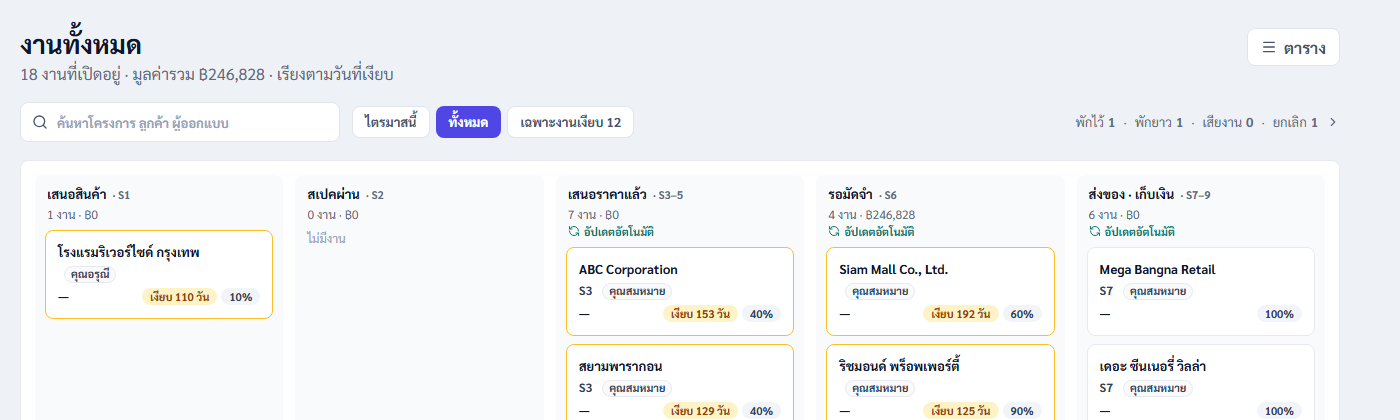
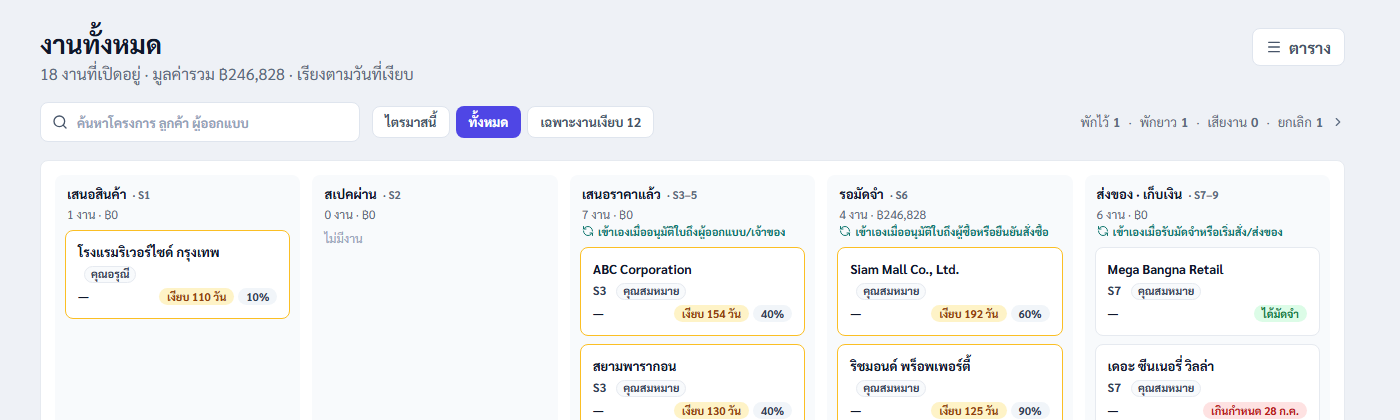
fix(sales): true one-line board column hints; 17 Nov notice matches its pictures (6a fix round 1)
Column hints now say only what really moves a job in, each fitting one line at
1400px with the whole rule as its tooltip; boardMoveHints.test.js pins them
against TicketService's autoAdvanceStage sites, DealStage's column table and
DealRoute (QUOTE_BUYER is on every route, so a no-recipient quotation lands in
column 4 — "ทราบผู้ซื้อ" was not true there). Column 3 no longer claims buyer
approvals; column 5 names deposit / ordering / shipping.

The 17 Nov notice step now says what moves a job, and its six board pictures
(all-deals-1/2/3, all-deals-team-1/2/4) are re-shot from mock mode with the top
bar cropped; their hashes updated. Also pins F4 (buyer line in column 4 only).

diff --git a/frontend/src/features/salesBoard/DealBoard.test.jsx b/frontend/src/features/salesBoard/DealBoard.test.jsx
@@ -33,26 +33,33 @@ describe('DealBoard', () => {
   });
 
   /*
-   * The move hints, pinned against where TicketService (backend/src/main/java/th/co/glr/hr/ticket/TicketService.java)
-   * calls autoAdvanceStage — a column's hint must name what moves a deal INTO it, and nothing else does:
-   *   col 3 เสนอราคาแล้ว (QUOTE_DESIGN_SIDE / QUOTE_OWNER / OWNER_SIGNOFF / AWAITING_BUYER): applyApprovedQuotation →
-   *     advanceStageForCustomerQuotationIssue → stageForQuotationRecipient(DESIGNER → QUOTE_DESIGN_SIDE, OWNER →
-   *     QUOTE_OWNER); generateQuotation does the same on a legacy issue. "ใบเสนอราคาอนุมัติ".
-   *   col 4 รอมัดจำ (QUOTE_BUYER / NEGOTIATION / ORDER_RECEIVED): the same quotation path for a BUYER (or an
-   *     UNSPECIFIED recipient, stageForUnspecifiedRecipient, "like a BUYER one") → QUOTE_BUYER; and the order confirm
-   *     → autoAdvanceStage(ORDER_RECEIVED). Both are S6's own step, "ทราบผู้ซื้อแล้ว" (dealSteps.js). "ทราบผู้ซื้อ".
-   *   col 5 ส่งของ · เก็บเงิน (DEPOSIT_RECEIVED … DELIVERED): the deposit confirmed → DEPOSIT_RECEIVED; the first IR
-   *     issued → PROCUREMENT; and routeAllStockDealToDelivery → DELIVERY_SCHEDULING when every line is covered from
-   *     stock (at a no-deposit order confirm, a deposit confirm, or reserveStock). "รับมัดจำ ออกใบขอซื้อ หรือของครบจาก
-   *     สต็อก" — the prototype's "รับมัดจำหรือออกใบขอซื้อ" left out the all-stock path, which skips both.
+   * Fix round 1 (M4): each hint is TRUE and short enough for one line at 1440px; its `title` carries the whole rule.
+   * Pinned against TicketService's autoAdvanceStage call sites by boardMoveHints.test.js (which reads the Java source).
+   *   col 3 (QUOTE_DESIGN_SIDE … AWAITING_BUYER): only a DESIGNER / OWNER quotation approved (or issued) moves a deal IN.
+   *   col 4 (QUOTE_BUYER … ORDER_RECEIVED): a BUYER quotation approved — or one with no recipient
+   *     (stageForUnspecifiedRecipient: QUOTE_BUYER is on every route) — or the order confirmed (ORDER_RECEIVED).
+   *     "ทราบผู้ซื้อ" was not true for the no-recipient case.
+   *   col 5 (DEPOSIT_RECEIVED …): deposit confirmed, first IR issued (สั่งของ), or every line covered from stock
+   *     (routeAllStockDealToDelivery → DELIVERY_SCHEDULING, ส่งของ).
    */
-  it('each auto column says what moves a deal into it, in the words checked against TicketService', () => {
+  it('each auto column says what moves a deal into it, on one line, with the whole rule as its tooltip', () => {
     renderBoard([]);
 
-    expect(within(screen.getByTestId('board-column-3')).getByText('เข้าเองเมื่อใบเสนอราคาอนุมัติ')).toBeTruthy();
-    expect(within(screen.getByTestId('board-column-4')).getByText('เข้าเองเมื่อทราบผู้ซื้อ')).toBeTruthy();
-    expect(within(screen.getByTestId('board-column-5')).getByText('เข้าเองเมื่อรับมัดจำ ออกใบขอซื้อ หรือของครบจากสต็อก'))
-      .toBeTruthy();
+    const expected = {
+      3: ['เข้าเองเมื่ออนุมัติใบถึงผู้ออกแบบ/เจ้าของ',
+        'งานเข้าช่องนี้เองเมื่อใบเสนอราคาถึงผู้ออกแบบหรือเจ้าของโครงการได้รับอนุมัติ'],
+      4: ['เข้าเองเมื่ออนุมัติใบถึงผู้ซื้อหรือยืนยันสั่งซื้อ',
+        'งานเข้าช่องนี้เองเมื่อใบเสนอราคาถึงผู้ซื้อ (หรือใบที่ไม่ระบุผู้รับ) ได้รับอนุมัติ หรือเมื่อยืนยันคำสั่งซื้อ'],
+      5: ['เข้าเองเมื่อรับมัดจำหรือเริ่มสั่ง/ส่งของ',
+        'งานเข้าช่องนี้เองเมื่อรับเงินมัดจำ ออกใบขอซื้อ หรือของครบจากสต็อกจนพร้อมส่ง'],
+    };
+    Object.entries(expected).forEach(([column, [text, rule]]) => {
+      const hint = within(screen.getByTestId(`board-column-${column}`)).getByTestId('board-column-hint');
+      expect(hint.textContent).toBe(text);
+      expect(hint.getAttribute('title')).toBe(rule);
+      // one line whatever the width: no wrap, an ellipsis if it ever overflows
+      expect(hint.className).toContain('truncate');
+    });
   });
 
   it('puts a QUOTE_OWNER deal in column 3 and a DELIVERED deal in column 5', () => {
@@ -159,6 +166,14 @@ describe('DealBoard', () => {
     expect(within(card).getByRole('link').getAttribute('title')).toBe(`ผู้ซื้อ: ${long}`);
     expect(within(card).queryByText(/DWP/)).toBeNull();
     expect(within(card).getByText(/Q4\/69/)).toBeTruthy();
+  });
+
+  it('only a รอมัดจำ card names the buyer: a ส่งของ · เก็บเงิน card with a buyer keeps the designer (F4)', () => {
+    renderBoard([moneyCard({ ticketId: 76, designerName: 'DWP', buyerName: 'บริษัท ผู้ซื้อ จำกัด' })]);
+
+    const card = screen.getByTestId('board-card-76');
+    expect(within(card).getByText('DWP')).toBeTruthy();
+    expect(within(card).queryByText(/ผู้ซื้อ:/)).toBeNull();
   });
 
   it('a รอมัดจำ card with no buyer yet keeps the designer', () => {

diff --git a/frontend/src/features/salesBoard/boardMoveHints.test.js b/frontend/src/features/salesBoard/boardMoveHints.test.js
@@ -1,0 +1,64 @@
+import { readFileSync } from 'node:fs';
+import { resolve } from 'node:path';
+import { describe, expect, it } from 'vitest';
+import { BOARD_COLUMNS } from './boardFormat.js';
+
+// The board's column hints (BOARD_COLUMNS[].moveHint / moveRule) pinned against the Java that actually moves a deal:
+// TicketService's autoAdvanceStage call sites, DealStage's rep-code → column table and DealRoute's off-route sets. If
+// the backend gains, loses or re-targets an automatic move, this file fails and the hints must be re-read.
+const JAVA = (path) => readFileSync(resolve(process.cwd(), '../backend/src/main/java/th/co/glr/hr', path), 'utf8');
+const TICKET_SERVICE = JAVA('ticket/TicketService.java');
+const DEAL_STAGE = JAVA('ticket/DealStage.java');
+const DEAL_ROUTE = JAVA('ticket/DealRoute.java');
+
+const hint = (column) => BOARD_COLUMNS.find((c) => c.column === column);
+
+/** The S-code a stage maps to in DealStage.REP_CODE, and the column that S-code sits in (DealStage.BOARD_COLUMN). */
+function columnOf(stage) {
+  // REP_CODE only (BUSINESS_CODE above it maps the same stages to the S1–S20 sheet numbers).
+  const repCode = DEAL_STAGE.slice(DEAL_STAGE.indexOf('REP_CODE = Map.ofEntries('), DEAL_STAGE.indexOf('BOARD_COLUMN = Map.of('));
+  const code = new RegExp(`Map\\.entry\\(${stage}, "(S\\d)"\\)`).exec(repCode)?.[1];
+  const column = new RegExp(`"${code}", (\\d)`).exec(DEAL_STAGE.slice(DEAL_STAGE.indexOf('BOARD_COLUMN = Map.of(')))?.[1];
+  return Number(column);
+}
+
+describe('board move hints vs TicketService', () => {
+  it('every automatic move target is one the hints account for, and no other exists', () => {
+    const targets = new Set([...TICKET_SERVICE.matchAll(/autoAdvanceStage\(\w+, DealStage\.(\w+), actor\)/g)].map((m) => m[1]));
+    // ORDER_RECEIVED (col 4), DEPOSIT_RECEIVED / PROCUREMENT / DELIVERY_SCHEDULING (col 5 entries), DELIVERED and
+    // CLOSED_PAID (moves inside col 5 / off the board). The quotation path passes a variable (stage / target).
+    expect([...targets].sort()).toEqual(
+      ['CLOSED_PAID', 'DELIVERED', 'DELIVERY_SCHEDULING', 'DEPOSIT_RECEIVED', 'ORDER_RECEIVED', 'PROCUREMENT']);
+  });
+
+  it('column 3: only a designer or owner quotation moves a deal in', () => {
+    expect(TICKET_SERVICE).toMatch(/QuotationRecipient\.DESIGNER\.equals\(recipientType\)\) \{\s*return DealStage\.QUOTE_DESIGN_SIDE;/);
+    expect(TICKET_SERVICE).toMatch(/QuotationRecipient\.OWNER\.equals\(recipientType\)\) \{\s*return DealStage\.QUOTE_OWNER;/);
+    expect(columnOf('QUOTE_DESIGN_SIDE')).toBe(3);
+    expect(columnOf('QUOTE_OWNER')).toBe(3);
+    expect(hint(3).moveHint).toBe('เข้าเองเมื่ออนุมัติใบถึงผู้ออกแบบ/เจ้าของ');
+  });
+
+  it('column 4: a buyer quotation, a quotation with no recipient, or the order confirm', () => {
+    expect(TICKET_SERVICE).toMatch(/QuotationRecipient\.BUYER\.equals\(recipientType\)\) \{\s*return DealStage\.QUOTE_BUYER;/);
+    // A no-recipient quotation goes to the nearest on-route stage at or before QUOTE_BUYER — QUOTE_BUYER itself, because
+    // no route ever drops it (DealRoute's off-route sets).
+    expect(TICKET_SERVICE).toMatch(/stageForUnspecifiedRecipient[\s\S]*?nearestOnRouteAtOrBefore\(stageForQuotationRecipient\(QuotationRecipient\.BUYER\)/);
+    const offRoute = DEAL_ROUTE.slice(DEAL_ROUTE.indexOf('OFF_ROUTE = Map.of('), DEAL_ROUTE.indexOf('static {'));
+    expect(offRoute).not.toContain('QUOTE_BUYER');
+    expect(TICKET_SERVICE).toMatch(/autoAdvanceStage\(s, DealStage\.ORDER_RECEIVED, actor\)/);
+    expect(columnOf('QUOTE_BUYER')).toBe(4);
+    expect(columnOf('ORDER_RECEIVED')).toBe(4);
+    expect(hint(4).moveHint).toBe('เข้าเองเมื่ออนุมัติใบถึงผู้ซื้อหรือยืนยันสั่งซื้อ');
+    expect(hint(4).moveRule).toContain('ไม่ระบุผู้รับ');
+  });
+
+  it('column 5: the deposit, the first import request, or a deal covered from stock', () => {
+    expect(TICKET_SERVICE).toMatch(/autoAdvanceStage\(s, DealStage\.DEPOSIT_RECEIVED, actor\)/);
+    expect(TICKET_SERVICE).toMatch(/autoAdvanceStage\(s, DealStage\.PROCUREMENT, actor\)/);
+    expect(TICKET_SERVICE).toMatch(/private boolean routeAllStockDealToDelivery[\s\S]*?autoAdvanceStage\(s, DealStage\.DELIVERY_SCHEDULING, actor\)/);
+    ['DEPOSIT_RECEIVED', 'PROCUREMENT', 'DELIVERY_SCHEDULING', 'DELIVERED'].forEach((stage) => expect(columnOf(stage), stage).toBe(5));
+    expect(hint(5).moveHint).toBe('เข้าเองเมื่อรับมัดจำหรือเริ่มสั่ง/ส่งของ');
+    ['มัดจำ', 'ใบขอซื้อ', 'สต็อก'].forEach((word) => expect(hint(5).moveRule).toContain(word));
+  });
+});

diff --git a/frontend/src/features/whatsNew/releases/2026-11-17.js b/frontend/src/features/whatsNew/releases/2026-11-17.js
@@ -143,7 +143,7 @@ const entries = [
     title: 'งานของคุณในเมนู "งานทั้งหมด" แสดงเป็นกระดาน 5 ช่องตามขั้นของงาน',
     why: 'เมนูนี้เดิมชื่อ “รายการดีล” และตอนนี้เห็นได้ทันทีว่างานแต่ละงานอยู่ขั้นไหนและงานไหนเงียบนานเกินไป',
     steps: [
-      ['กด "เมนู" แล้วเลือก "งานทั้งหมด" ในหมวด งานขาย', `งานที่เปิดอยู่ของคุณแบ่งเป็น 5 ช่อง: ${BOARD_COLUMNS_TEXT} ช่องที่มีป้าย "เข้าเองเมื่อ…" ขยับเองเมื่อออกเอกสาร หน้างานทั้งหมดและหน้ารายละเอียดงานเรียก “ดีล” ว่า “งาน” แล้ว`, 'กระดานงานทั้งหมด 5 ช่องของพนักงานขาย'],
+      ['กด "เมนู" แล้วเลือก "งานทั้งหมด" ในหมวด งานขาย', `งานที่เปิดอยู่ของคุณแบ่งเป็น 5 ช่อง: ${BOARD_COLUMNS_TEXT} ช่องที่มีป้าย "เข้าเองเมื่อ…" ขยับเองเมื่อใบเสนอราคาได้รับอนุมัติ ยืนยันสั่งซื้อ รับมัดจำ หรือเริ่มสั่งหรือส่งของ หน้างานทั้งหมดและหน้ารายละเอียดงานเรียก “ดีล” ว่า “งาน” แล้ว`, 'กระดานงานทั้งหมด 5 ช่องของพนักงานขาย'],
       ['กรองด้วยปุ่ม "ไตรมาสนี้" "ทั้งหมด" หรือ "เฉพาะงานเงียบ"', `หน้าเปิดที่ "ทั้งหมด" เสมอ งานที่เงียบนานขึ้นก่อน ${QUIET_TEXT}`, 'ปุ่มกรองและช่องค้นหาเหนือกระดาน'],
       ['กดการ์ดงานเพื่อเปิดหน้ารายละเอียดงาน', 'งานที่พักไว้หรือปิดแล้วไม่อยู่บนกระดาน กดลิงก์ "พักไว้" "เสียงาน" หรือ "ยกเลิก" (และ "พักยาว" เมื่อมีงานที่พักยาว) ทางขวาของปุ่มกรองเพื่อดูในตาราง', 'การ์ดงานบนกระดานและลิงก์งานที่พักไว้หรือปิดแล้ว'],
       ['ต้องการแบบตารางเหมือนเดิม กด "ตาราง" มุมขวาบน', 'กด "บอร์ด" เพื่อกลับ เบราว์เซอร์นี้จำแบบที่คุณเลือกไว้', 'ปุ่มตารางมุมขวาบนของหน้างานทั้งหมด'],

diff --git a/frontend/src/features/salesBoard/boardFormat.js b/frontend/src/features/salesBoard/boardFormat.js
@@ -9,11 +9,22 @@ import { weekEndDay } from './cashFormat.js';
 export const BOARD_COLUMNS = [
   { column: 1, label: 'เสนอสินค้า', code: 'S1', auto: false },
   { column: 2, label: 'สเปคผ่าน', code: 'S2', auto: false },
-  { column: 3, label: 'เสนอราคาแล้ว', code: 'S3–5', auto: true, moveHint: 'เข้าเองเมื่อใบเสนอราคาอนุมัติ' },
-  { column: 4, label: 'รอมัดจำ', code: 'S6', auto: true, moveHint: 'เข้าเองเมื่อทราบผู้ซื้อ' },
+  // Fix round 1: each hint is true and fits one line at 1440px; `moveRule` (the tooltip) is the whole rule.
+  // boardMoveHints.test.js pins every one against TicketService / DealStage / DealRoute.
+  {
+    column: 3, label: 'เสนอราคาแล้ว', code: 'S3–5', auto: true,
+    moveHint: 'เข้าเองเมื่ออนุมัติใบถึงผู้ออกแบบ/เจ้าของ',
+    moveRule: 'งานเข้าช่องนี้เองเมื่อใบเสนอราคาถึงผู้ออกแบบหรือเจ้าของโครงการได้รับอนุมัติ',
+  },
+  {
+    column: 4, label: 'รอมัดจำ', code: 'S6', auto: true,
+    moveHint: 'เข้าเองเมื่ออนุมัติใบถึงผู้ซื้อหรือยืนยันสั่งซื้อ',
+    moveRule: 'งานเข้าช่องนี้เองเมื่อใบเสนอราคาถึงผู้ซื้อ (หรือใบที่ไม่ระบุผู้รับ) ได้รับอนุมัติ หรือเมื่อยืนยันคำสั่งซื้อ',
+  },
   {
     column: 5, label: 'ส่งของ · เก็บเงิน', code: 'S7–9', auto: true,
-    moveHint: 'เข้าเองเมื่อรับมัดจำ ออกใบขอซื้อ หรือของครบจากสต็อก',
+    moveHint: 'เข้าเองเมื่อรับมัดจำหรือเริ่มสั่ง/ส่งของ',
+    moveRule: 'งานเข้าช่องนี้เองเมื่อรับเงินมัดจำ ออกใบขอซื้อ หรือของครบจากสต็อกจนพร้อมส่ง',
   },
 ];
 

diff --git a/frontend/src/features/whatsNew/releases/imageHashes.fixture.js b/frontend/src/features/whatsNew/releases/imageHashes.fixture.js
@@ -39,14 +39,14 @@ export const IMAGE_SHA256_2026_11_16 = Object.freeze({
 
 // The 17 Nov release (17a + 17d), reviewed in adversarial-task-wn2 / wn3.
 export const IMAGE_SHA256_2026_11_17 = Object.freeze({
[17 lines of base64/hex data omitted]

diff --git a/frontend/src/features/salesBoard/DealBoard.jsx b/frontend/src/features/salesBoard/DealBoard.jsx
@@ -122,9 +122,9 @@ export function DealBoard({ deals, showOwner = false }) {
                 {inColumn.length} งาน · {totalLabel(sumValue(inColumn), otherCurrencyTotals(inColumn))}
               </small>
               {col.auto ? (
-                <span className="inline-flex items-start gap-1 text-2xs font-bold leading-snug text-accent-dark">
-                  <Icon name="refresh" size={12} className="mt-px shrink-0" />
-                  {col.moveHint}
+                <span className="flex min-w-0 items-center gap-1 text-2xs font-bold text-accent-dark" title={col.moveRule}>
+                  <Icon name="refresh" size={12} className="shrink-0" />
+                  <span data-testid="board-column-hint" title={col.moveRule} className="min-w-0 truncate">{col.moveHint}</span>
                 </span>
               ) : null}
             </header>
